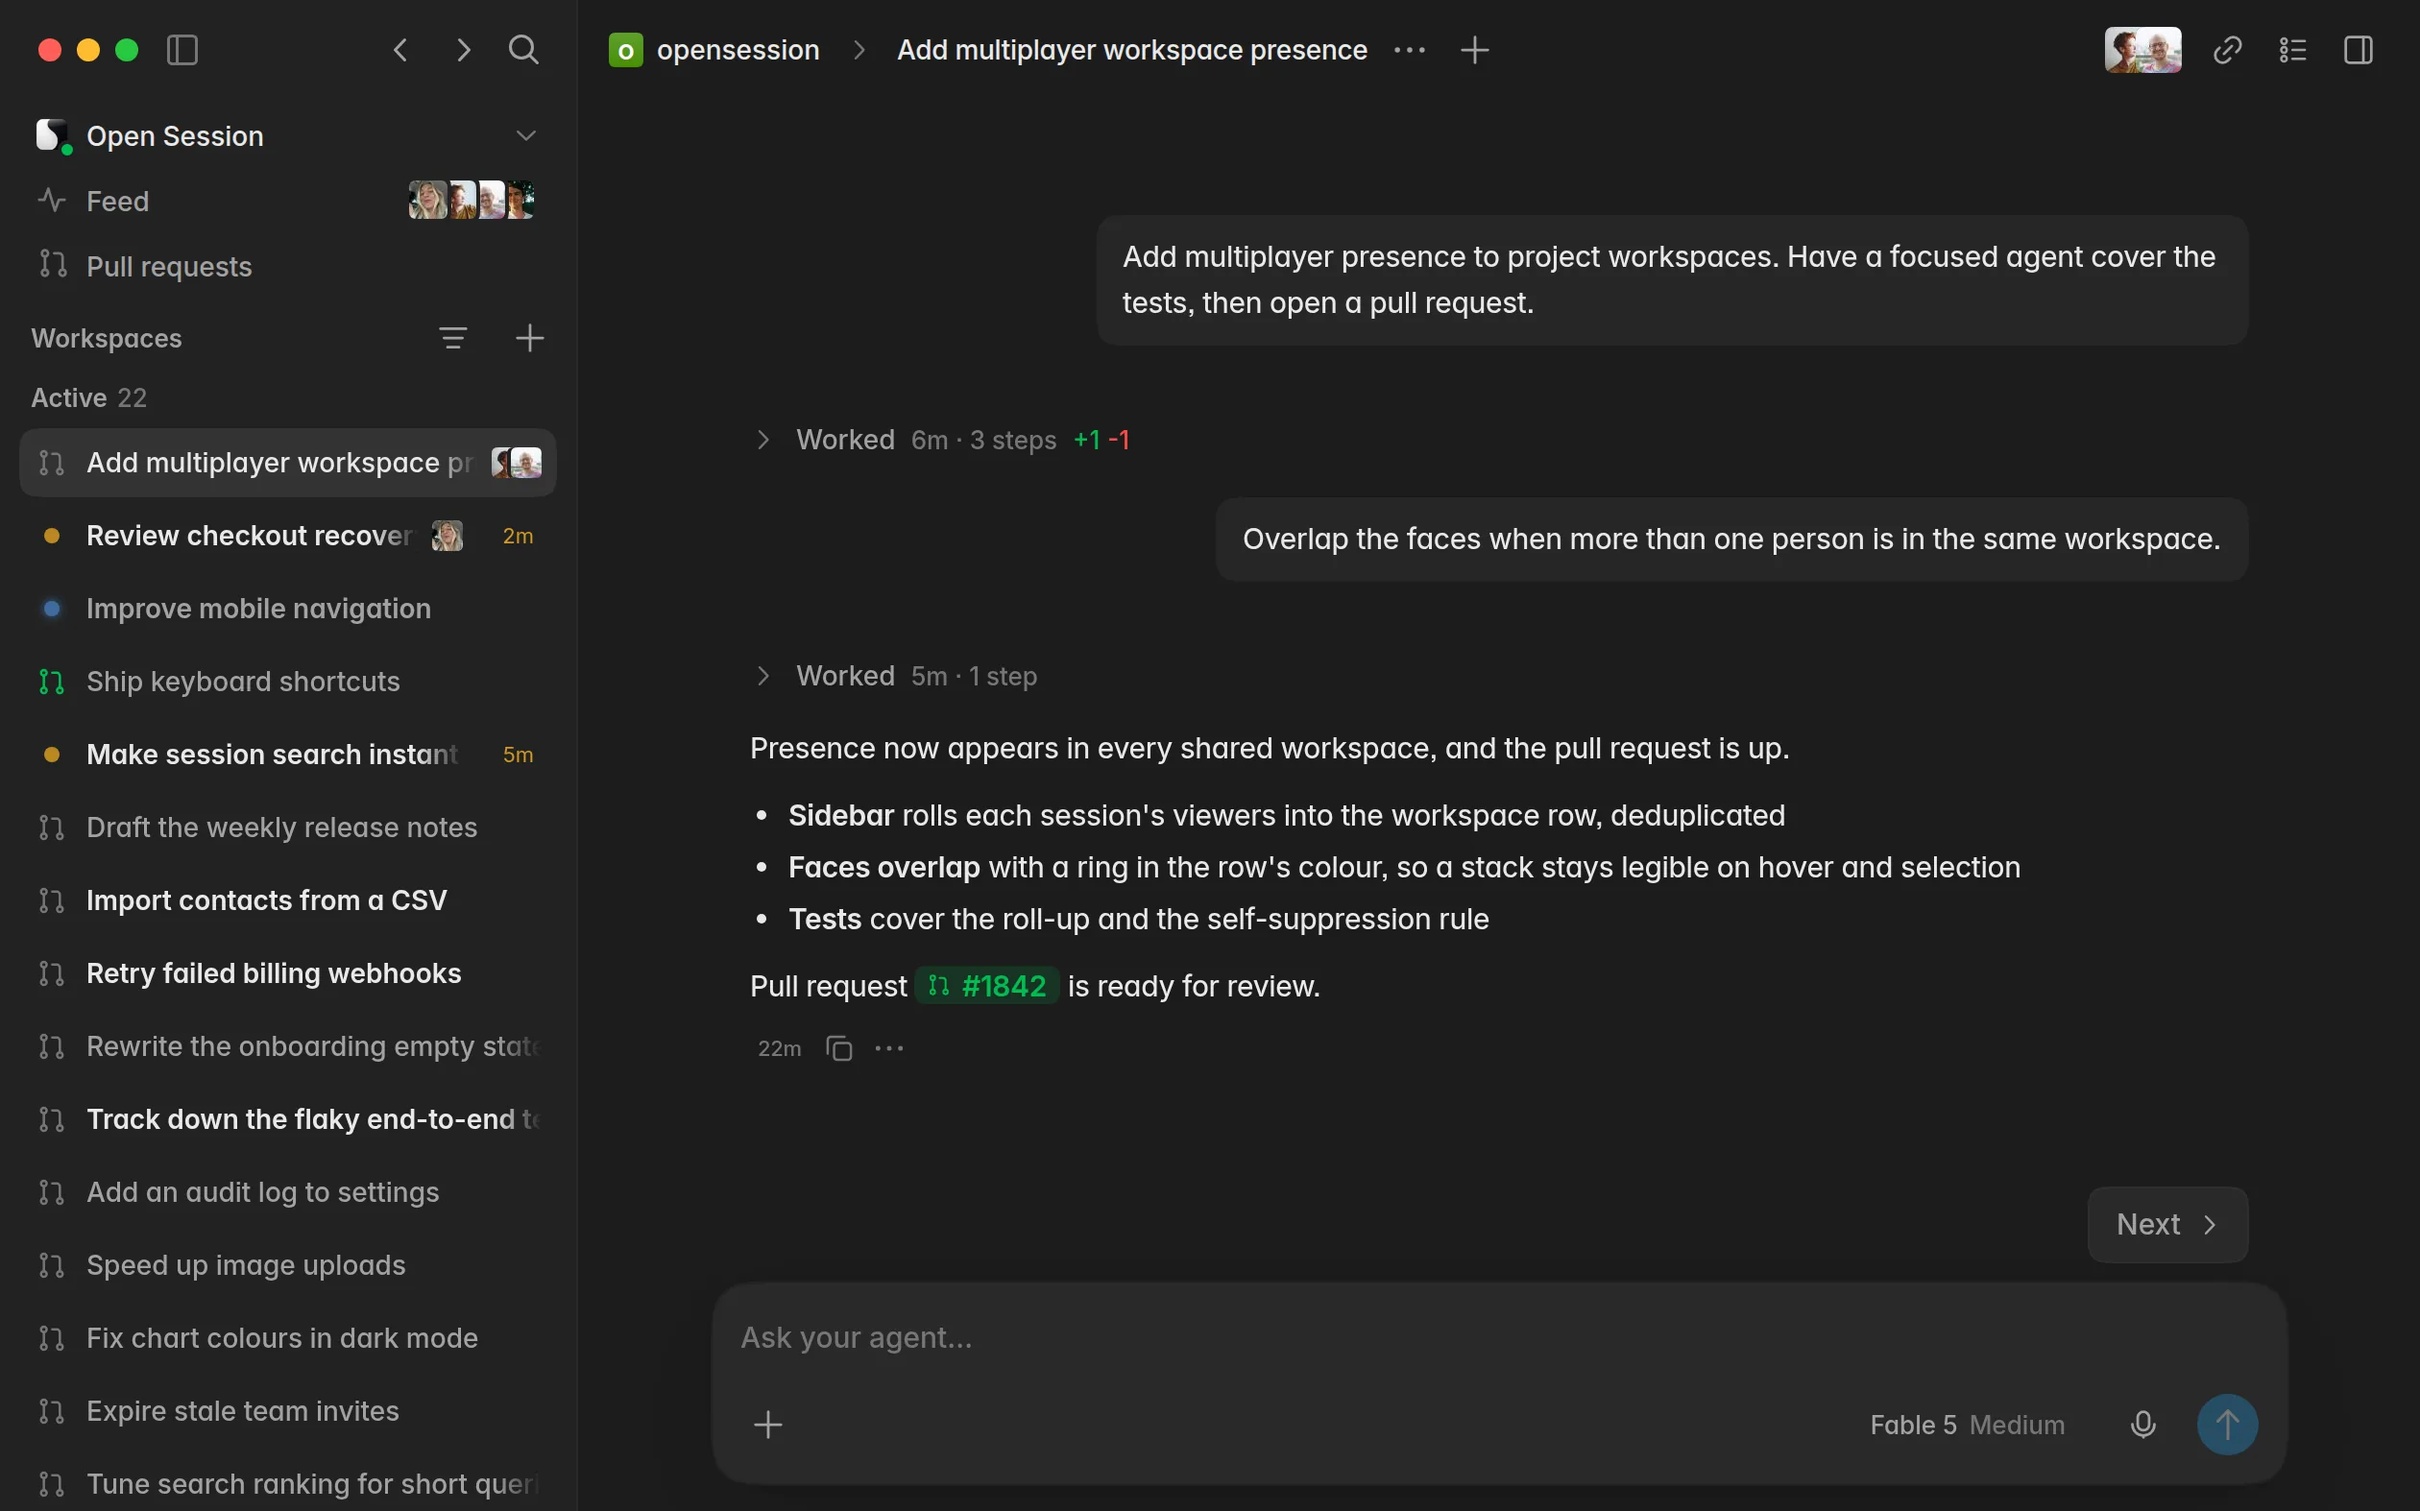
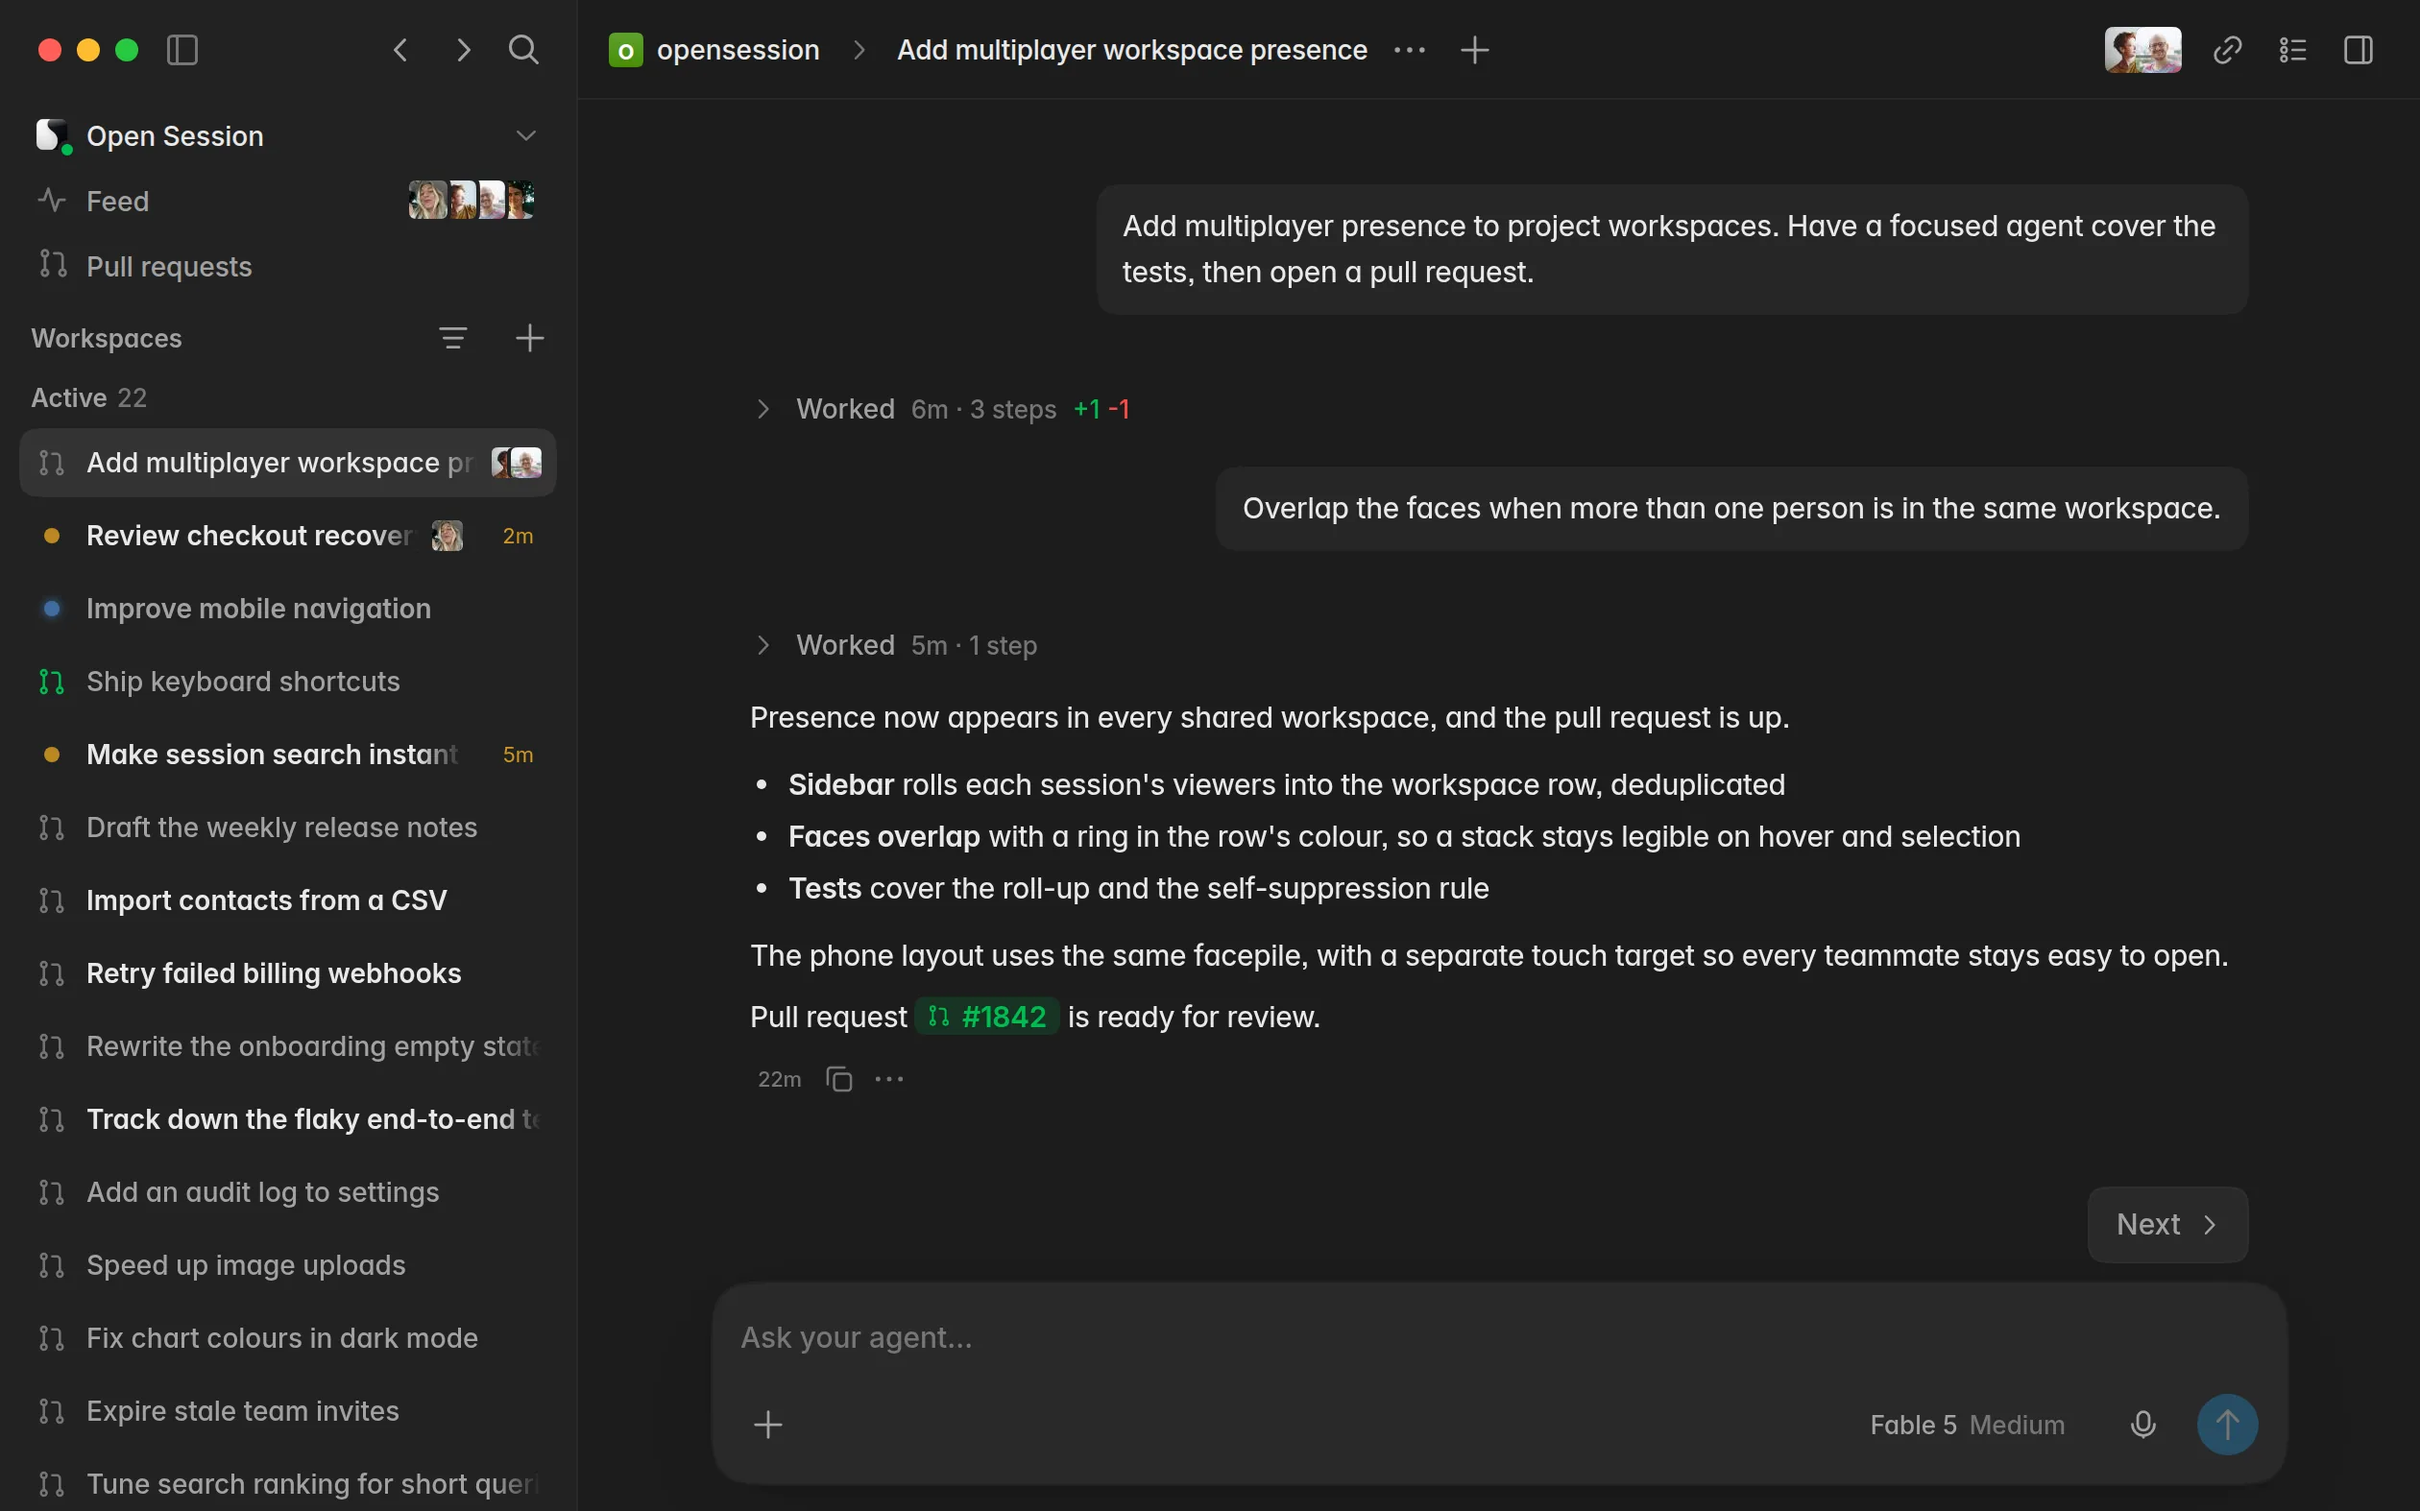
Fill out the landing demo chat

diff --git a/packages/clients/website/product-demo-main.tsx b/packages/clients/website/product-demo-main.tsx
@@ -379,7 +379,7 @@ const transcripts: Record<string, TranscriptEntry[]> = {
 			id: "entry-14",
 			type: "assistant",
 			content:
-				"Presence now appears in every shared workspace, and the pull request is up.\n\n- **Sidebar** rolls each session's viewers into the workspace row, deduplicated\n- **Faces overlap** with a ring in the row's colour, so a stack stays legible on hover and selection\n- **Tests** cover the roll-up and the self-suppression rule\n\nPull request #1842 is ready for review.",
+				"Presence now appears in every shared workspace, and the pull request is up.\n\n- **Sidebar** rolls each session's viewers into the workspace row, deduplicated\n- **Faces overlap** with a ring in the row's colour, so a stack stays legible on hover and selection\n- **Tests** cover the roll-up and the self-suppression rule\n\nThe phone layout uses the same facepile, with a separate touch target so every teammate stays easy to open.\n\nPull request #1842 is ready for review.",
 			timestamp: minutesAgo(4),
 			model: "anthropic/claude-fable-5",
 			seq: 14,
